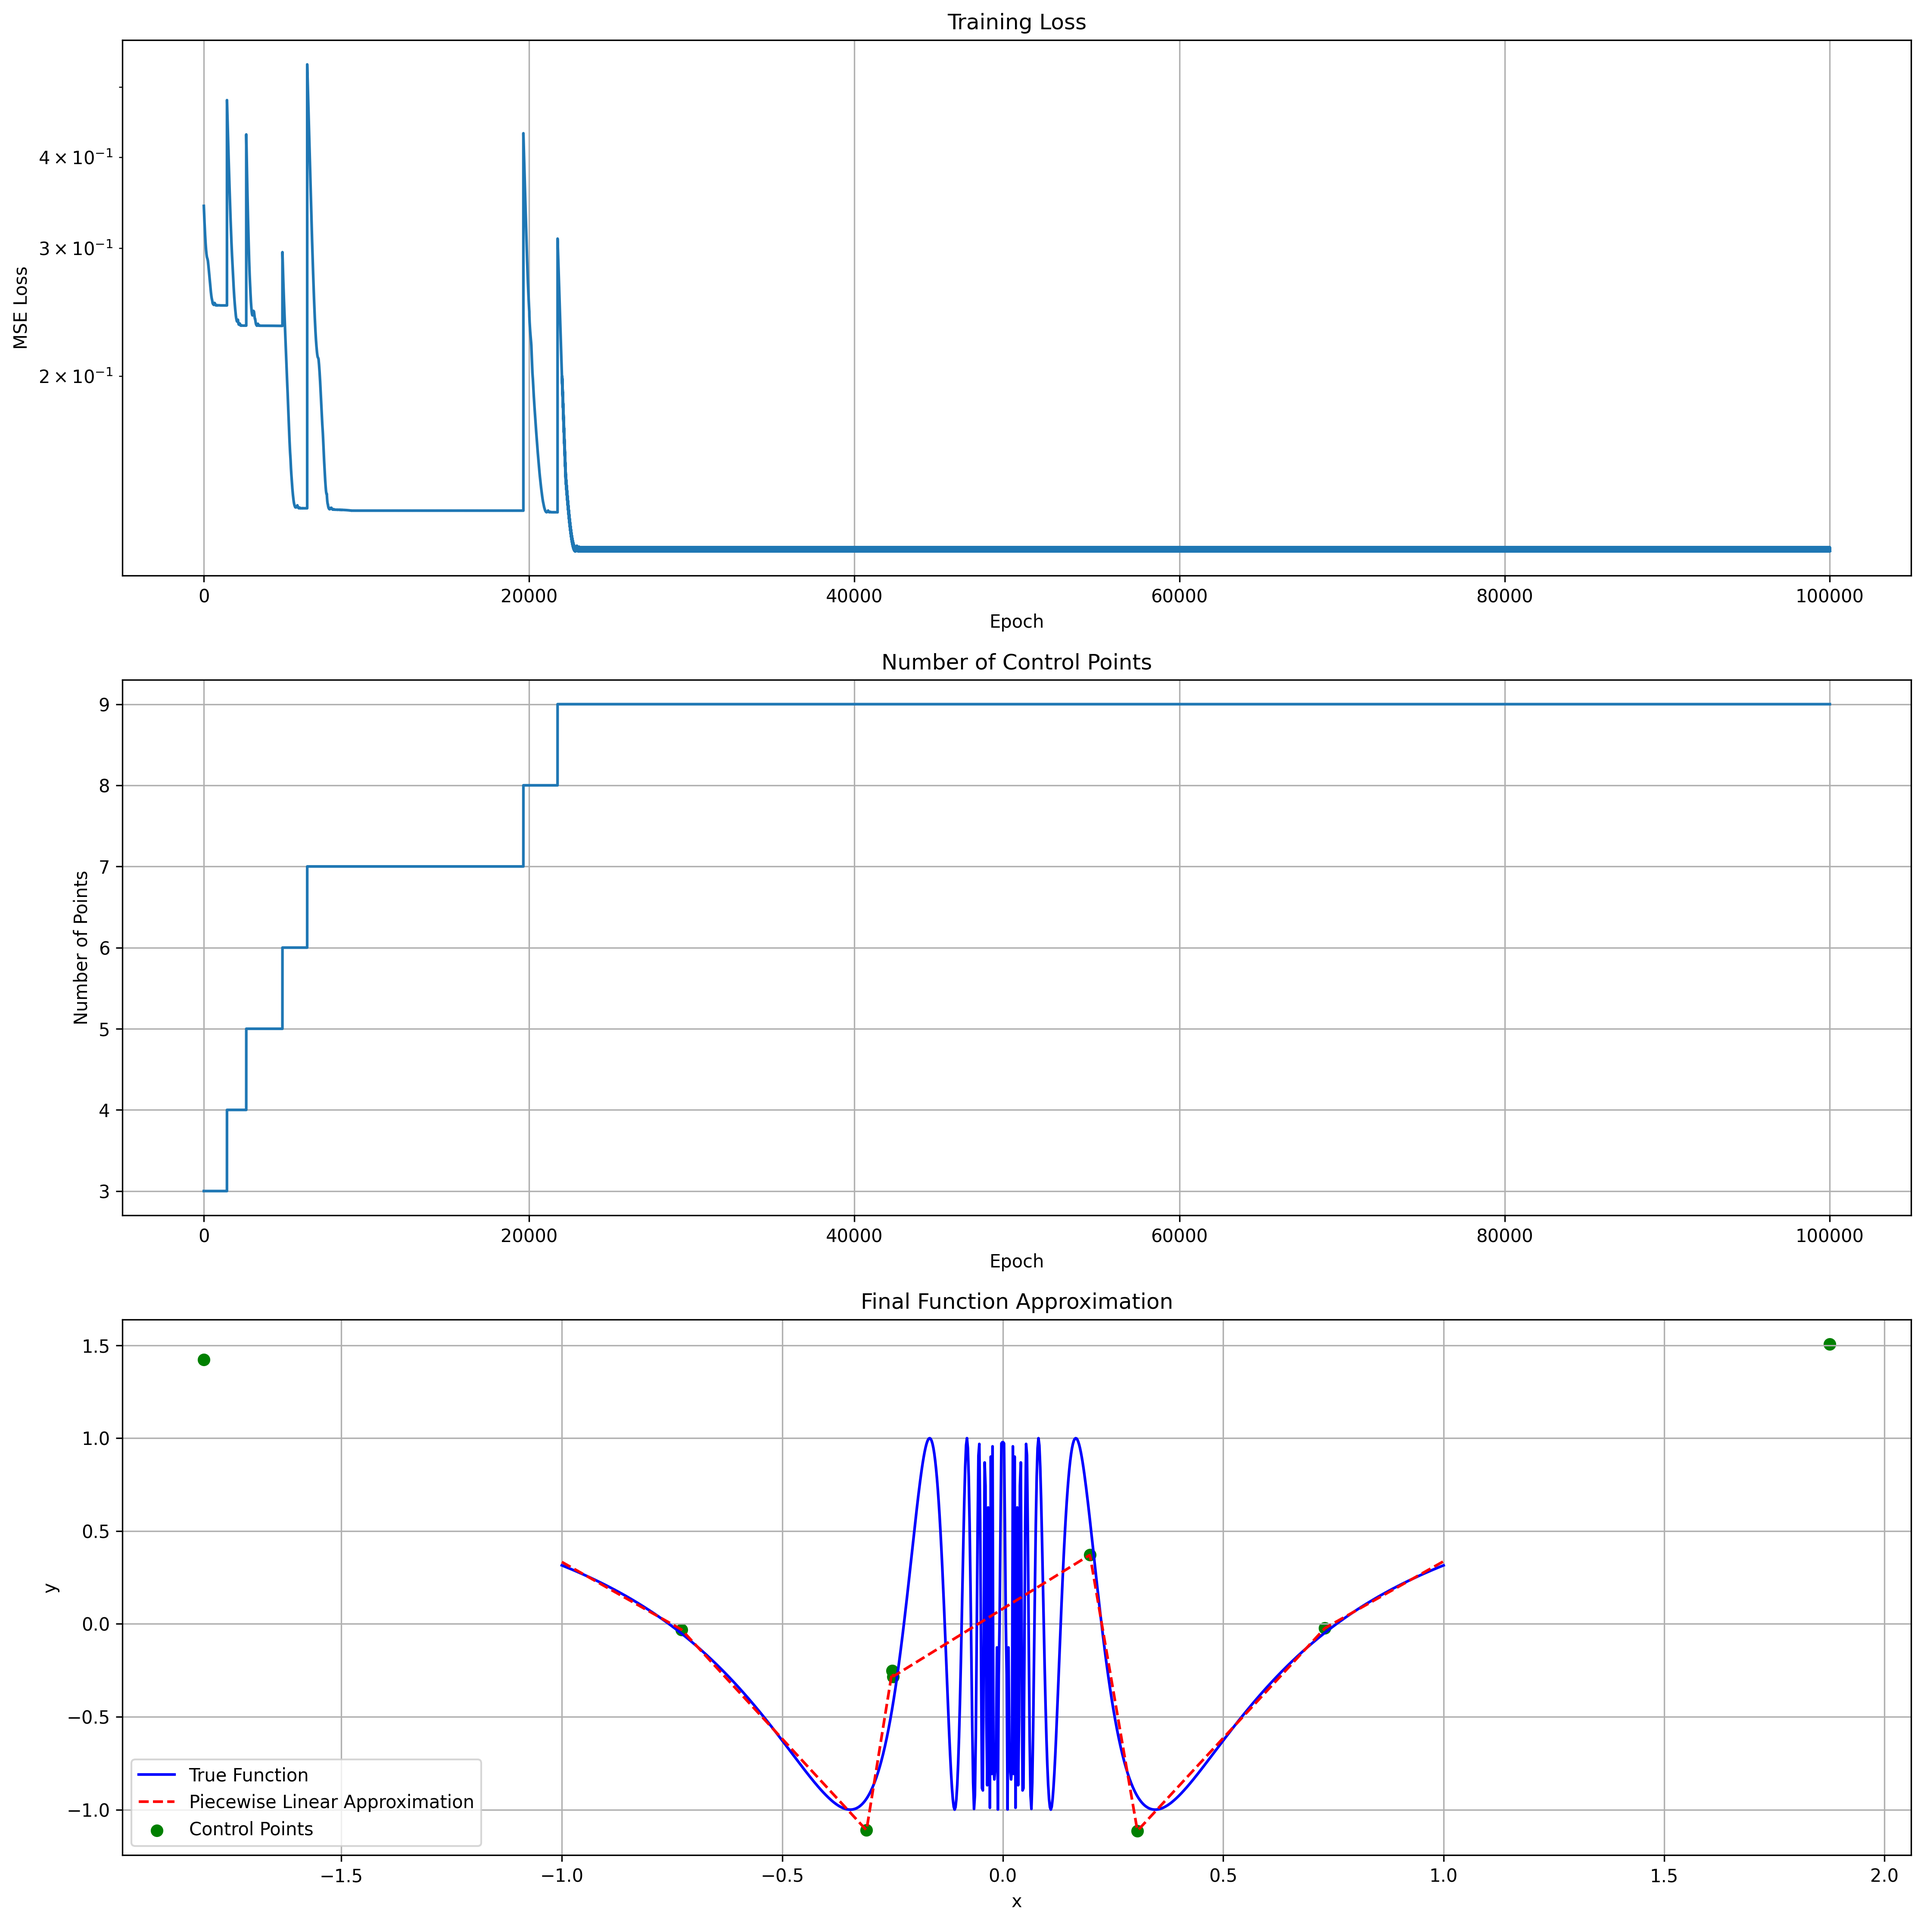
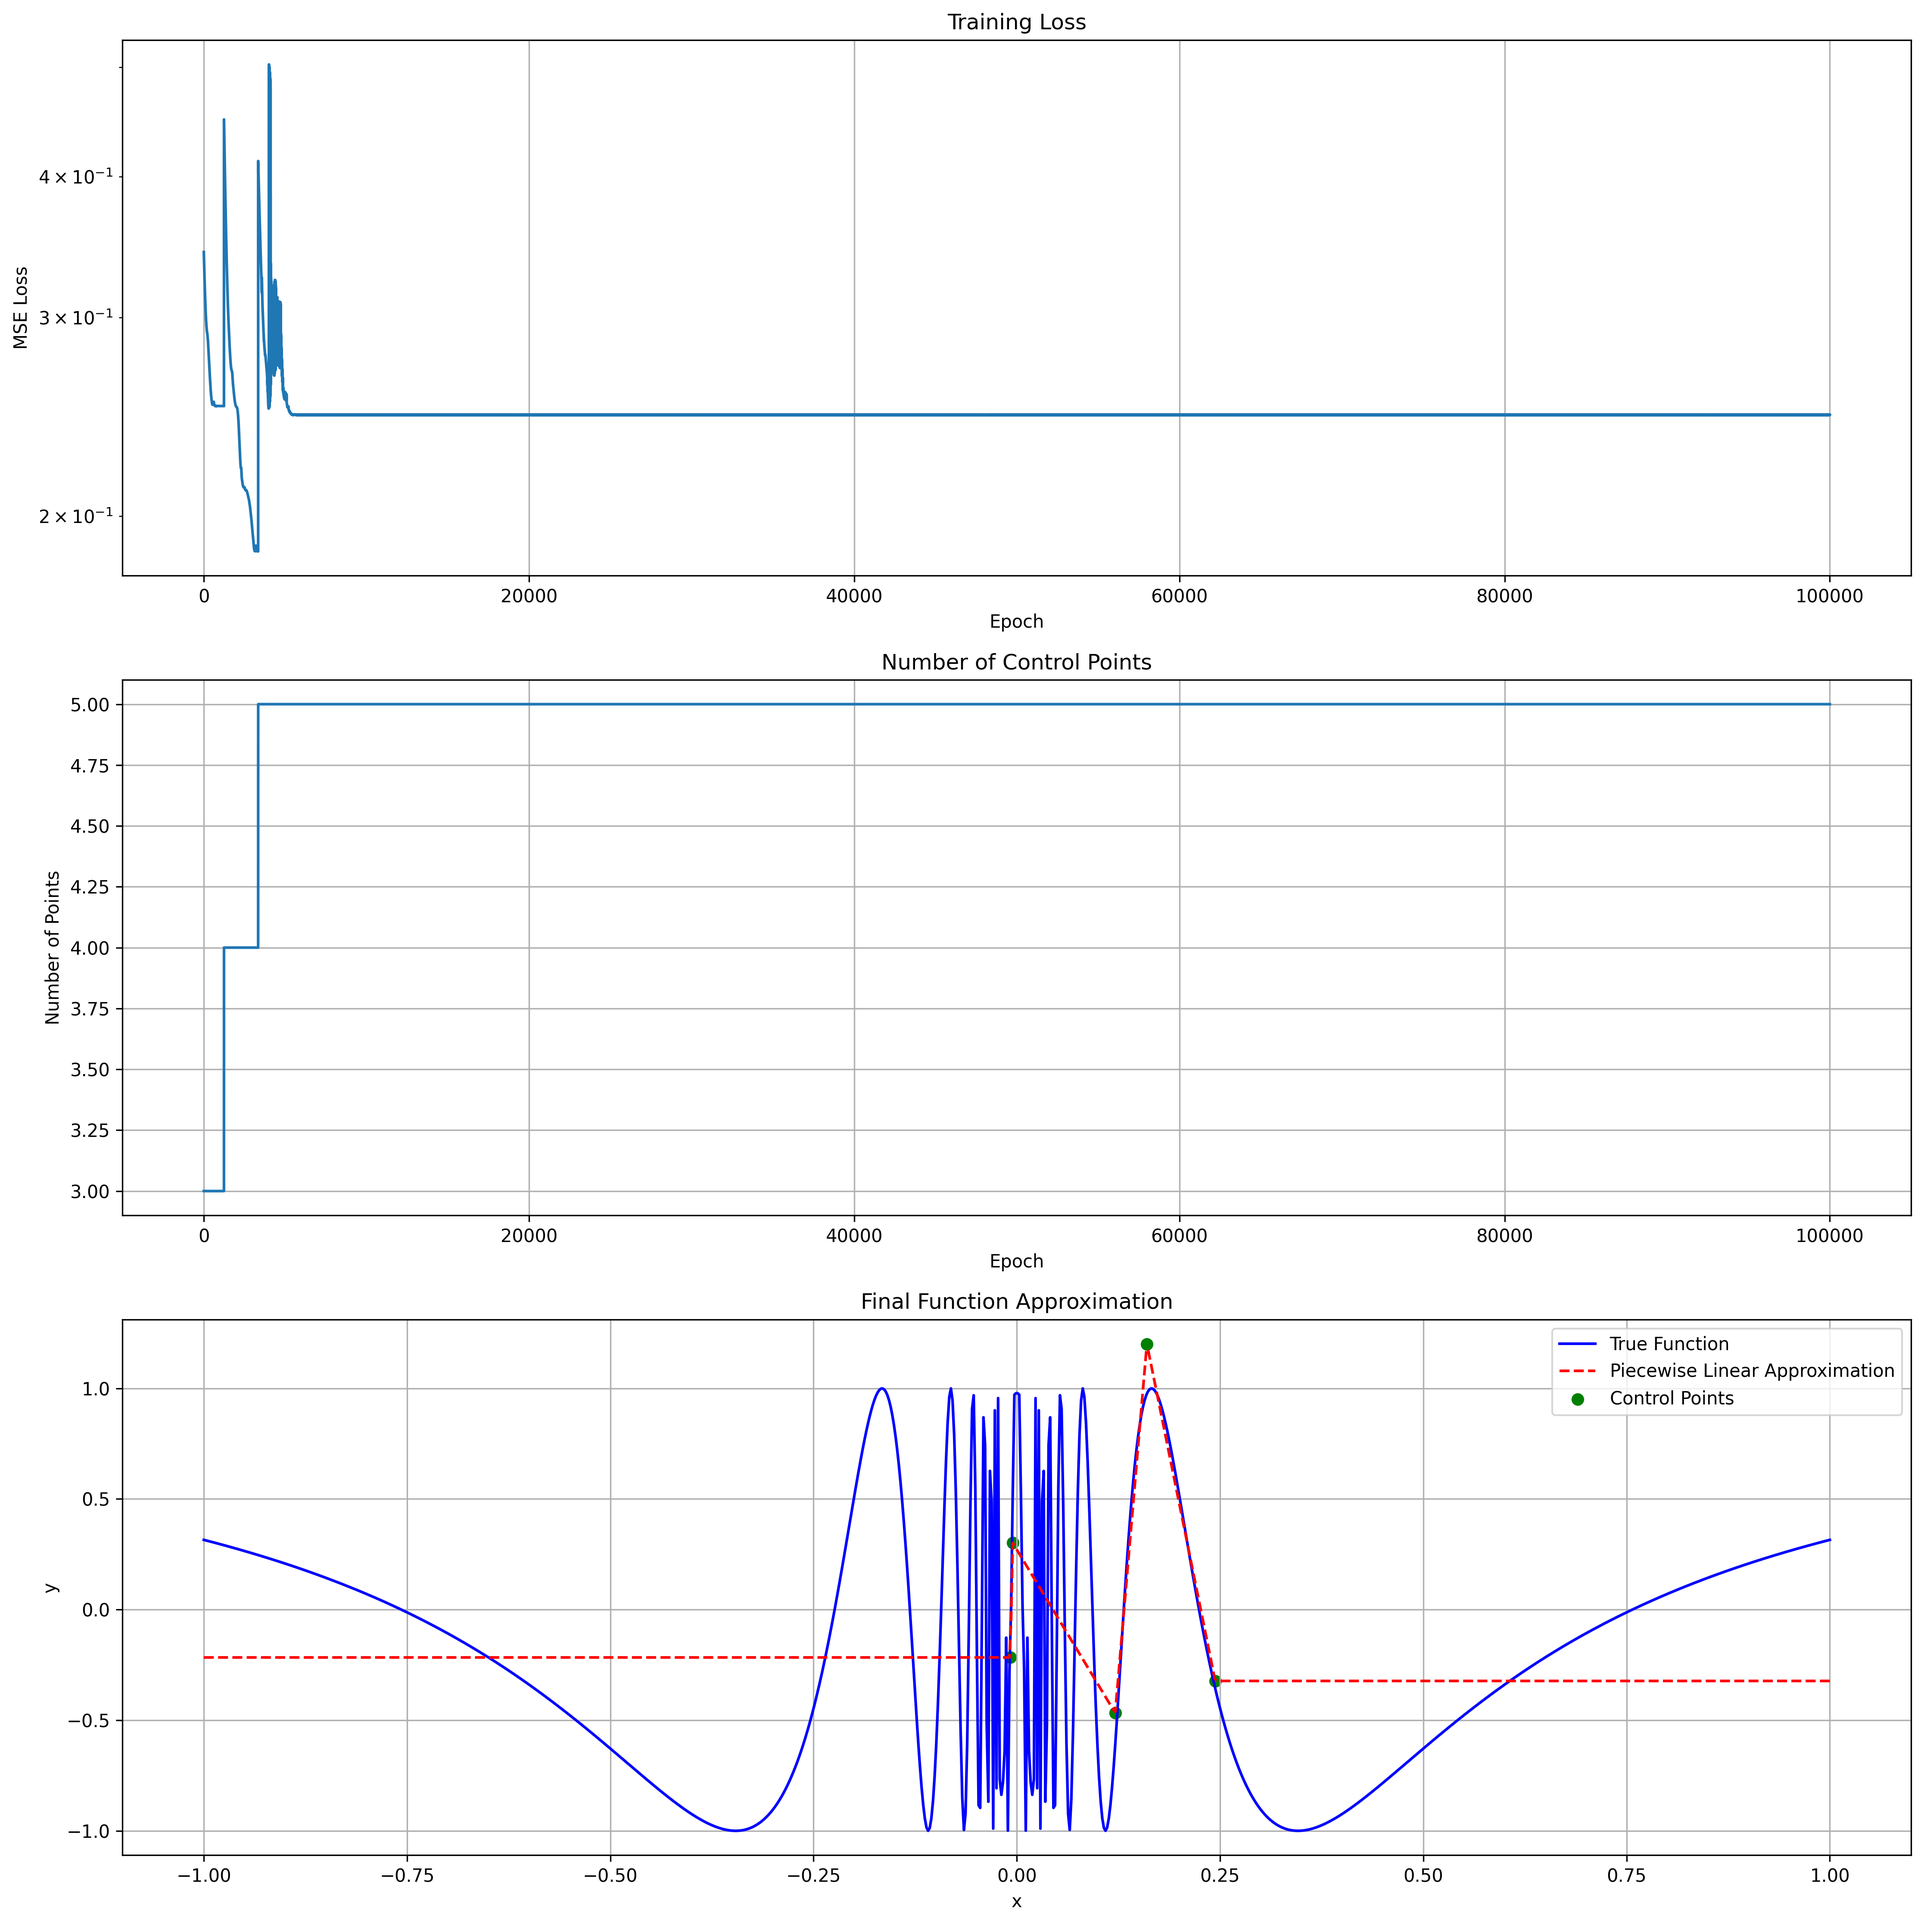
Update

diff --git a/tests/test_piecewise_linear.py b/tests/test_piecewise_linear.py
@@ -1,0 +1,79 @@
+import torch
+import pytest
+from non_uniform_piecewise_layers import NonUniformPiecewiseLinear
+
+def test_add_point_at_max_error():
+    # Create a simple layer with 1 input, 1 output, and 2 points
+    layer = NonUniformPiecewiseLinear(num_inputs=1, num_outputs=1, num_points=2)
+    
+    # Set specific positions and values for testing
+    layer.positions.data = torch.tensor([[[0.0, 1.0]]])
+    layer.values.data = torch.tensor([[[0.0, 1.0]]])
+    
+    # Create input and run forward pass
+    x = torch.tensor([[0.5]])
+    y = layer(x)
+    
+    # Set artificial gradients (maximum at the first point)
+    layer.values.grad = torch.tensor([[[2.0, 1.0]]])
+    
+    # Add point using different strategies
+    for strategy in range(3):
+        # Reset layer for each strategy
+        layer = NonUniformPiecewiseLinear(num_inputs=1, num_outputs=1, num_points=2)
+        layer.positions.data = torch.tensor([[[0.0, 1.0]]])
+        layer.values.data = torch.tensor([[[0.0, 1.0]]])
+        layer.values.grad = torch.tensor([[[2.0, 1.0]]])
+        
+        success = layer.add_point_at_max_error(split_strategy=strategy)
+        assert success
+        assert layer.num_points == 3
+        
+        # Check new positions are properly ordered
+        positions = layer.positions[0, 0]
+        assert torch.all(positions[:-1] < positions[1:])
+
+def test_add_point_gpu():
+    if not torch.cuda.is_available():
+        pytest.skip("CUDA not available")
+        
+    # Create layer on GPU
+    layer = NonUniformPiecewiseLinear(num_inputs=1, num_outputs=1, num_points=2).cuda()
+    layer.positions.data = torch.tensor([[[0.0, 1.0]]], device='cuda')
+    layer.values.data = torch.tensor([[[0.0, 1.0]]], device='cuda')
+    
+    # Run forward pass on GPU
+    x = torch.tensor([[0.5]], device='cuda')
+    y = layer(x)
+    
+    # Set gradients on GPU
+    layer.values.grad = torch.tensor([[[2.0, 1.0]]], device='cuda')
+    
+    # Add point
+    success = layer.add_point_at_max_error(split_strategy=0)
+    assert success
+    assert layer.num_points == 3
+    assert layer.positions.device.type == 'cuda'
+    assert layer.values.device.type == 'cuda'
+
+def test_no_gradients():
+    layer = NonUniformPiecewiseLinear(num_inputs=1, num_outputs=1, num_points=2)
+    with pytest.raises(ValueError, match="No gradients available"):
+        layer.add_point_at_max_error()
+
+def test_multiple_dimensions():
+    # Test with multiple inputs and outputs
+    layer = NonUniformPiecewiseLinear(num_inputs=2, num_outputs=3, num_points=2)
+    
+    # Set gradients with known maximum
+    grads = torch.zeros(2, 3, 2)
+    grads[1, 2, 0] = 5.0  # Maximum at input=1, output=2, point=0
+    layer.values.grad = grads
+    
+    success = layer.add_point_at_max_error()
+    assert success
+    assert layer.num_points == 3
+    
+    # Check that point was added in correct input-output pair
+    original_positions = layer.positions[1, 2]  # Check positions for input=1, output=2
+    assert len(original_positions) == 3  # Should now have 3 points

diff --git a/examples/sine_fitting.py b/examples/sine_fitting.py
@@ -64,20 +64,13 @@ class SineApproximator(nn.Module):
     def forward(self, x):
         return self.piecewise(x)
 
+    def compute_abs_grads(self, x):
+        return self.piecewise.compute_abs_grads(x)
+
 def generate_optimizer(parameters) :
     #return torch.optim.Adam(parameters,1e-3)
     #return torch.optim.SGD(parameters, lr=1e-2)
     return Lion(parameters, lr=1e-3)
-
-def compute_grads(x, model):
-    output = model(x)
-    #print('output.shape', output.shape,output.shape[0])
-    grads = [torch.autograd.grad(output[element],model.parameters(), retain_graph=True) for element in range(output.shape[0])]
-    #print('grads[0]',grads[0])
-    abs_grad=[torch.flatten(torch.abs(torch.cat(grad)),start_dim=1).sum(dim=0) for grad in grads]
-    #print('abs_grad.shape', abs_grad[0].shape)
-    abs_grad = torch.stack(abs_grad).sum(dim=0)
-    return abs_grad
     
 
 # Training parameters
@@ -85,7 +78,7 @@ initial_points = 3  # Number of points in piecewise function
 max_points = 50    # Maximum number of points to add
 min_epochs_between_points = 500  # Minimum epochs to wait between adding points
 plateau_window = 200  # Window size to check for loss plateau
-plateau_threshold = 0.00001  # Relative improvement threshold to detect plateau
+plateau_threshold = 0.001  # Relative improvement threshold to detect plateau
 model = SineApproximator(initial_points)
 criterion = nn.MSELoss()
 optimizer = generate_optimizer(model.parameters())
@@ -123,7 +116,7 @@ for epoch in range(num_epochs):
         # Only add point if we're at the best loss we've seen and improvement is minimal
         if relative_improvement < plateau_threshold and current_loss <= best_loss:
             # Loss has plateaued at best value, try to add a point
-            abs_grad = compute_grads(x, model)
+            abs_grad = model.compute_abs_grads(x)
             strategy = 2
             success = model.piecewise.add_point_at_max_error(abs_grad=abs_grad, split_strategy=strategy)
             

diff --git a/non_uniform_piecewise_layers/piecewise_linear.py b/non_uniform_piecewise_layers/piecewise_linear.py
@@ -136,6 +136,19 @@ class NonUniformPiecewiseLinear(nn.Module):
             # Clamp positions to allowed range
             self.positions.data.clamp_(self.position_min, self.position_max)
 
+    def compute_abs_grads(self, x):
+        """
+        Super slow computation so you only want to compute this periodically
+        """
+        output = self(x)
+        #print('output.shape', output.shape,output.shape[0])
+        grads = [torch.autograd.grad(output[element],self.parameters(), retain_graph=True) for element in range(output.shape[0])]
+        #print('grads[0]',grads[0])
+        abs_grad=[torch.flatten(torch.abs(torch.cat(grad)),start_dim=1).sum(dim=0) for grad in grads]
+        #print('abs_grad.shape', abs_grad[0].shape)
+        abs_grad = torch.stack(abs_grad).sum(dim=0)
+        return abs_grad
+
     def add_point_at_max_error(self, abs_grad, split_strategy: int = 0):
         """
         Add a new control point where the absolute gradient is largest, indicating
